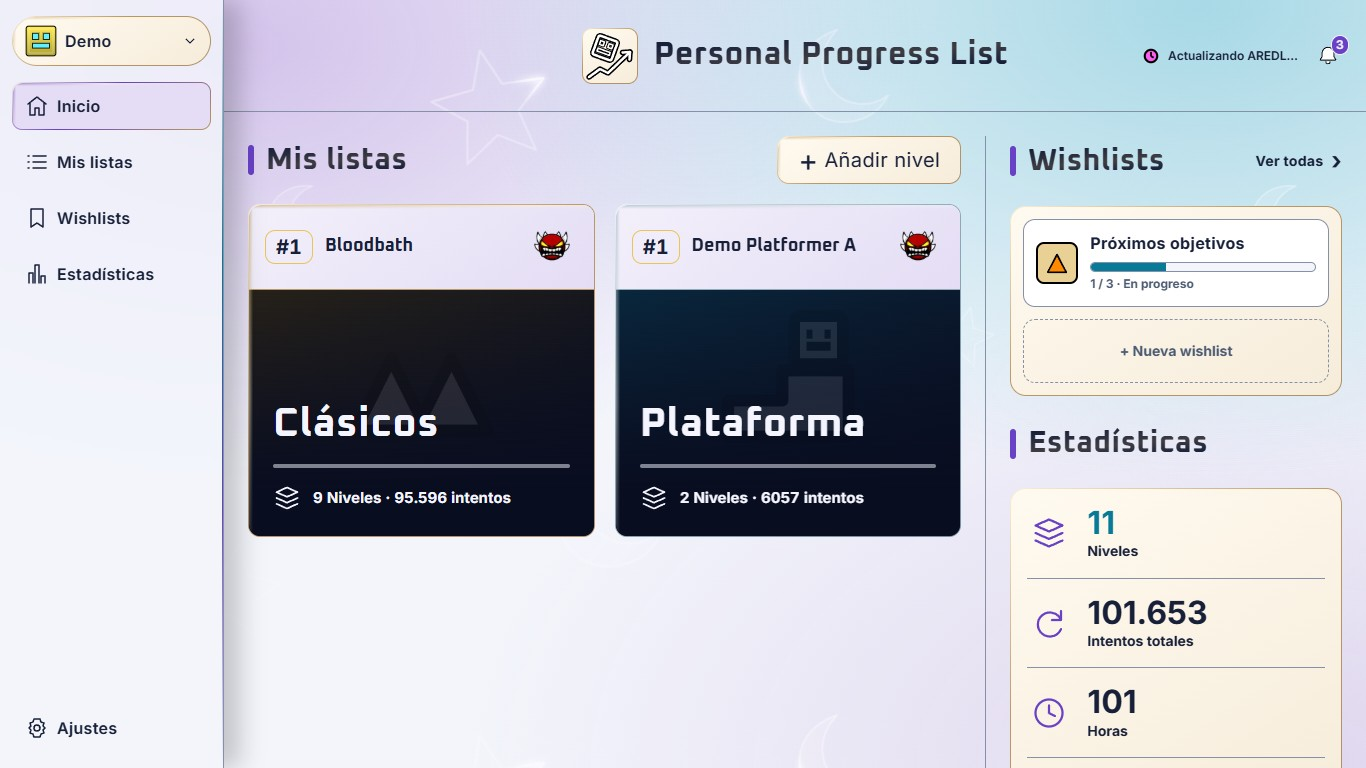
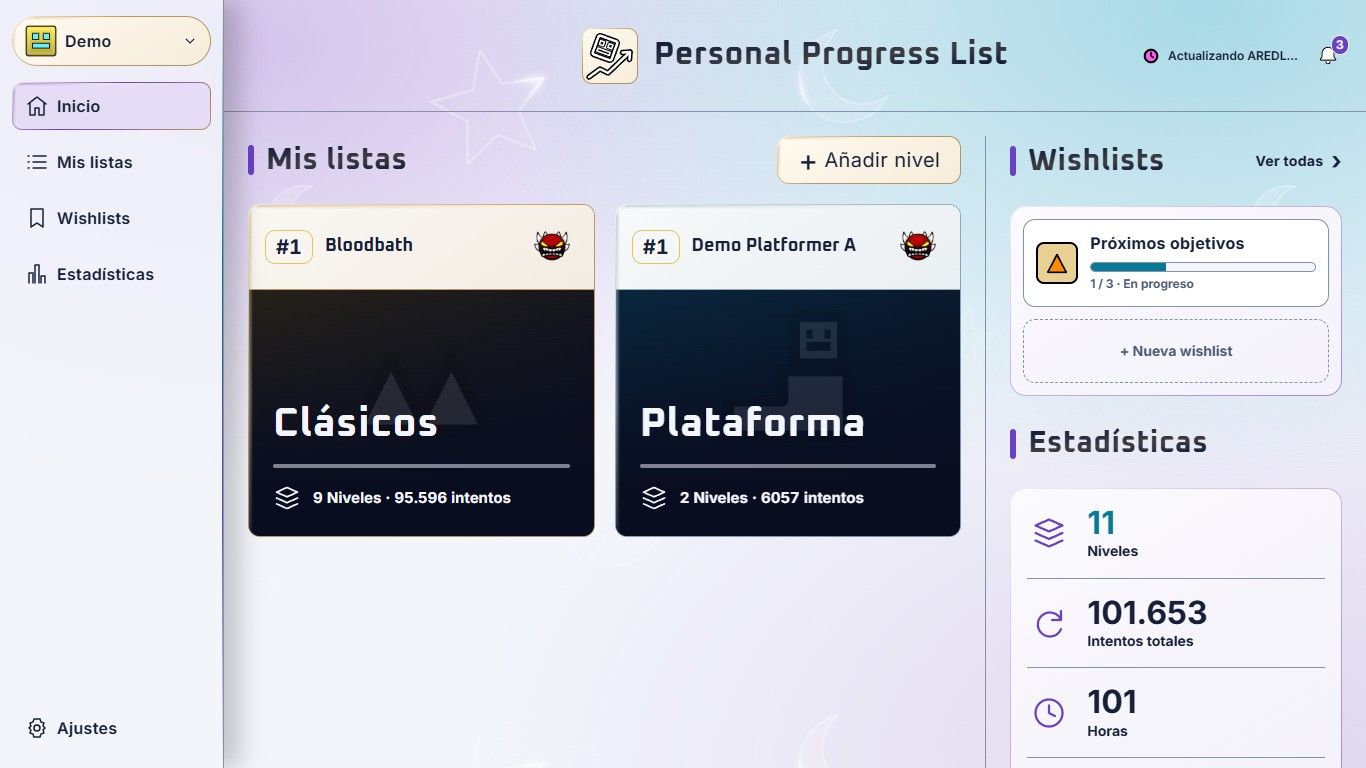
Tint Porcelain cards from their rims and use violet for secondary panels

Changed region(s): [[0.7379, 0.625, 0.9839, 1.0], [0.7379, 0.25, 0.9839, 0.5312]]

diff --git a/css/styles.css b/css/styles.css
@@ -4090,9 +4090,14 @@ main.home {
     --metal-shade: #538a99;
     --metal-glint: #e6faff;
   }
-  [data-theme=porcelain] .hl .hcard {
-    --satin-light: color-mix(in srgb, var(--color-accent) 8%, var(--color-surface));
-    --satin-base: color-mix(in srgb, var(--color-accent) 18%, var(--color-surface));
+  [data-theme=porcelain] :is(.hwish-rows, .hstats-surface, .trigs .trig, .legacy-surface :is(.well, .wh, .kpi)) {
+    --metal-edge: color-mix(in srgb, var(--color-accent) 38%, var(--color-surface));
+    --metal-glint: color-mix(in srgb, var(--color-accent) 9%, var(--color-surface));
+    --metal-shade: color-mix(in srgb, var(--color-accent) 60%, var(--color-surface));
+  }
+  [data-theme=porcelain] :is(.hl .hcard, .hwish-rows, .hstats-surface, .trigs .trig, .legacy-surface :is(.well, .wh, .kpi)) {
+    --satin-light: color-mix(in srgb, var(--metal-edge) 7%, var(--color-surface));
+    --satin-base: color-mix(in srgb, var(--metal-edge) 19%, var(--color-surface));
   }
   [data-theme=porcelain] .hl .hcard-platform {
     --metal-edge: #90aab7;
